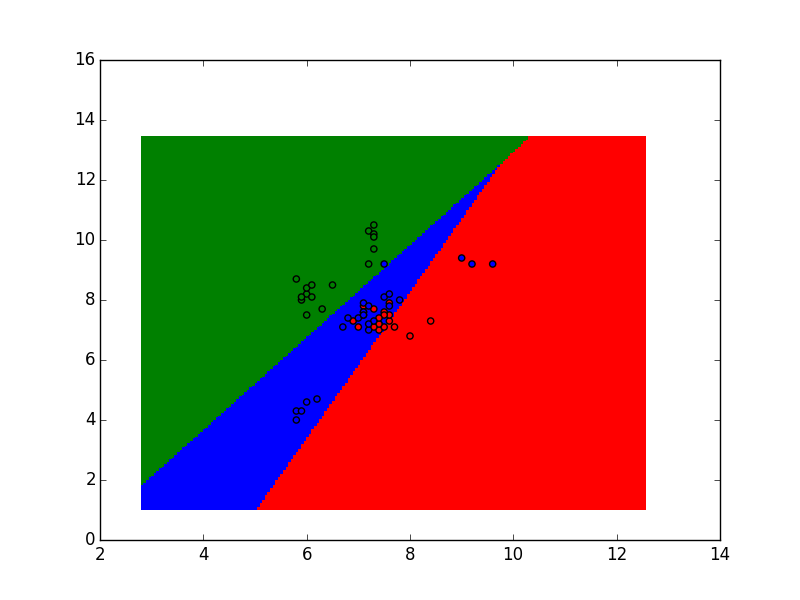
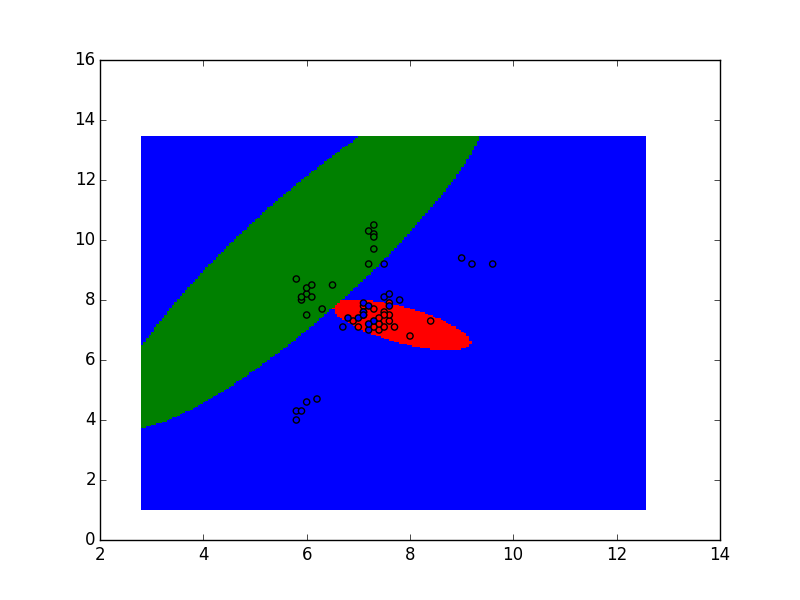
hw2 update

diff --git a/homework2/GaussianGenerativeModel.py b/homework2/GaussianGenerativeModel.py
@@ -12,24 +12,60 @@ from sklearn.discriminant_analysis import LinearDiscriminantAnalysis
 class GaussianGenerativeModel(LinearDiscriminantAnalysis):
     def __init__(self, isSharedCovariance=False):
         self.isSharedCovariance = isSharedCovariance
-        solver = 'eigen' if isSharedCovariance else 'svd'
-        super(GaussianGenerativeModel, self).__init__(solver=solver)
+        super(GaussianGenerativeModel, self).__init__()
 
     # Just to show how to make 'private' methods
-    def __dummyPrivateMethod(self, input):
-        return None
+    def __meanCovMatrix(self):
+        means = []
+        cov = []
+        shared_cov = np.zeros((self.nFeatures, self.nFeatures))
+        for c in range(self.nClasses):
+            rows_in_class = self.X[self.Y == c]
+            means.append(np.mean(rows_in_class, axis=0))
+            if self.isSharedCovariance:
+                Cov_i = np.cov(rows_in_class.T)
+                shared_cov += Cov_i*rows_in_class.shape[0]
+            else:
+                cov.append(np.cov(rows_in_class.T))
+        if self.isSharedCovariance:
+            return np.array(means), shared_cov/self.X.shape[0]
+        return np.array(means), cov
+
+    def __numClasses(self):
+        rets = np.zeros(self.nClasses)
+        for y in self.Y:
+            rets[y] += 1
+        return rets
 
     # TODO: Implement this method!
     def fit(self, X, Y):
         self.X = X
         self.Y = Y
-        return super(GaussianGenerativeModel, self).fit(X, Y)
+        self.nClasses = 3
+        self.nFeatures = X.shape[1]
+        self.N = X.shape[0]
+
+        self.class_means, self.shared_covariance = self.__meanCovMatrix()
+        class_counts = self.__numClasses()
+        self.b = np.log(class_counts / (class_counts.sum()))
+        # return super(GaussianGenerativeModel, self).fit(X, Y)
+
+    def __gaussianProb(self, x):
+        class_probs = np.zeros(self.nClasses)
+        for c in range(self.nClasses):
+            cov = self.shared_covariance if self.isSharedCovariance else self.shared_covariance[c]
+            class_probs[c] = multivariate_normal.pdf(x, mean=self.class_means[c], cov=cov)
+        return np.log(class_probs)
 
     # TODO: Implement this method!
     def predict(self, X_to_predict):
         # The code in this method should be removed and replaced! We included it just so that the distribution code
         # is runnable and produces a (currently meaningless) visualization.
-        return super(GaussianGenerativeModel, self).predict(X_to_predict)
+        gaussian_probs = np.zeros((X_to_predict.shape[0], self.nClasses))
+        for i in range(X_to_predict.shape[0]):
+            gaussian_probs[i] = self.__gaussianProb(X_to_predict[i])
+        return np.argmax(gaussian_probs + self.b, axis=1)
+        # return super(GaussianGenerativeModel, self).predict(X_to_predict)
 
     # Do not modify this method!
     def visualize(self, output_file, width=3, show_charts=False):

diff --git a/homework2/LogisticRegression.py b/homework2/LogisticRegression.py
@@ -16,39 +16,56 @@ class LogisticRegression(BaseLogisticRegression):
         super(LogisticRegression, self).__init__()
     
     # Just to show how to make 'private' methods
-    def __oneHotEncoding(self, C):
-        ret = []
-        for c in C:
-            if c == 0:
-                ret.append([1, 0, 0])
-            elif c == 1:
-                ret.append([0, 1, 0])
-            else:
-                ret.append([0, 0 ,1])
-        return np.array(ret)
+    def __oneHotEncoding(self, Y):
+        rets = []
+        for y in Y:
+            ret = np.zeros(3)
+            ret[y] = 1
+            rets.append(ret)
+        return np.array(rets)
 
-    def __oneHotDecoding(self, C):
-        ret = []
-        for c in C:
-            if c == [1, 0, 0]:
-                ret.append(0)
-            elif c == [0, 1, 0]:
-                ret.append(1)
-            else:
-                ret.append(2)
-        return np.array(ret)
+    def __softmax(self, X, W):
+        activations = X.dot(W.T)
+        return activations - logsumexp(activations, axis=1)[:, np.newaxis]
+
+    def __loss(self):
+        return -np.sum(self.Y * self.__softmax(self.X, self.W)) + self.lambda_parameter * (np.power(self.W, 2).sum())
+
+    def __gradientLoss(self):
+        return (np.exp(self.__softmax(self.X, self.W)) - self.Y).T.dot(self.X) + 2 * self.lambda_parameter * self.W
+
+    def __iteration(self):
+        gradientLoss = self.__gradientLoss()
+        self.W = self.W - gradientLoss * self.eta
+        return gradientLoss
 
     # TODO: Implement this method!
-    def fit(self, X, C):
+    def fit(self, X, Y):
+        X = np.append(X, np.ones((X.shape[0], 1)), axis=1)
+        self.nFeatures = X.shape[1]
         self.X = X
-        self.Class = C
-        return super(LogisticRegression, self).fit(X, C)
+        self.Class = Y
+        self.Y = self.__oneHotEncoding(Y)
+        self.N = X.shape[0]
+        self.W = np.zeros((3, self.nFeatures))
+
+        epoch = 0
+        while True:
+            epoch += 1
+            gradient = self.__iteration()
+            if epoch % 10000 == 0:
+                norm = np.linalg.norm(gradient)
+                if norm < .000001:
+                    break
+        # return super(LogisticRegression, self).fit(X, Y)
 
     # TODO: Implement this method!
     def predict(self, X_to_predict):
         # The code in this method should be removed and replaced! We included it just so that the distribution code
         # is runnable and produces a (currently meaningless) visualization.
-        return super(LogisticRegression, self).predict(X_to_predict)
+        X_to_predict = np.append(X_to_predict, np.ones((X_to_predict.shape[0], 1)), axis=1)
+        return np.argmax(X_to_predict.dot(self.W.T), axis=1)
+        # return super(LogisticRegression, self).predict(X_to_predict)
 
     def visualize(self, output_file, width=2, show_charts=False):
         X = self.X

diff --git a/homework2/problem3.py b/homework2/problem3.py
@@ -11,7 +11,7 @@ from GaussianGenerativeModel import GaussianGenerativeModel
 # adjust these as you try to find the best fit for each classifier.
 
 # Logistic Regression parameters
-eta = .1
+eta = .001
 lambda_parameter = .1
 
 
